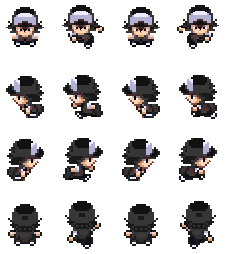
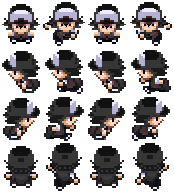
fix collision bug and test bully object

diff --git a/application/views/pages/game2.php b/application/views/pages/game2.php
@@ -96,6 +96,8 @@
 	var img = {};
 	img.player = new Image();
 	img.player.src = "<?php echo base_url(); ?>assets/images/avatars/cfcd208495d565ef66e7dff9f98764da.png";
+	img.bully = new Image();
+	img.bully.src = "<?php echo base_url(); ?>assets/images/bully.png";
 	img.map = new Image();
 	img.map.src = "<?php echo base_url(); ?>assets/images/" + map_filename;
 	img.key = new Image();
@@ -409,7 +411,7 @@
 			// ctx.fillRect(leftBumper.x, leftBumper.y, 5,5);
 			// ctx.fillRect(rightBumper.x, rightBumper.y, 5,5);
 
-			if( (Maps.current.isPossitionWall(leftBumper) === 4) || (Maps.current.isPossitionWall(leftBumper) === 4) || (Maps.current.isPossitionWall(leftBumper) === 4) || (Maps.current.isPossitionWall(rightBumper) === 4))
+			if( (Maps.current.isPossitionWall(topBumper) === 4) || (Maps.current.isPossitionWall(leftBumper) === 4) || (Maps.current.isPossitionWall(bottomBumper) === 4) || (Maps.current.isPossitionWall(rightBumper) === 4))
 			{
 				if(key.status != true)
 				{
@@ -420,7 +422,6 @@
 				{
 					alert('goal');
 					startNewGame();
-					console.log('goal');
 				}
 			}
 
@@ -430,7 +431,7 @@
 				{
 					self.y += 6;
 					isError = true;
-					// self.y = oldY;
+
 				} else {
 					if(self.isPressingUp)
 						self.y -= 6;
@@ -439,14 +440,14 @@
 				{
 					self.y -= 6;
 					isError = true;
-					// self.y = oldY;
+					
 				} else {
 					if(self.isPressingDown)
 						self.y += 6;
 				}
 				if(Maps.current.isPossitionWall(leftBumper) === 5)
 				{
-					// self.x = oldX;
+					
 					self.x += 6;
 					isError = true;
 				} else {
@@ -455,7 +456,7 @@
 				}
 				if(Maps.current.isPossitionWall(rightBumper) === 5)
 				{
-					// self.x = oldX;
+						
 					self.x -= 6;
 					isError = true;
 				} else {
@@ -572,20 +573,33 @@
 			height: height,
 			width: width,
 			img: new Image(),
+			toRemove: false,
 		};
 
-		img.src = imgSrc;
+		self.img.src = imgSrc;
 
 		self.update = function() {
 
-			if(atkCtr < 100)
-				atkCtr += atkSpd;
+			if(self.atkCtr < 100)
+				self.atkCtr += self.atkSpd;
 
-			self.aim();
+			self.updatePosition();
 			self.draw();
+			self.aim();
 		}
 
-		self.draw = function() {}
+		self.draw = function() {
+
+			var x = self.x - self.width/2;
+			var y = self.y - self.height/2;
+
+			var frameWidth = self.img.width/4;
+			var frameHeight = self.img.height/4;
+
+			var directionMod = 0;
+
+			ctx.drawImage(self.img, 0, 0, self.img.width/4, self.img.height/4, x, y, self.width, self.height);
+		}
 
 		self.updatePosition = function() {}
 
@@ -607,18 +621,31 @@
 			startPoint = 0;
 			
 			do{
-				if(Maps.current.grid[i].indexOf(6, startPoint) != -1)
+				if(Maps.current.grid[i].indexOf(7, startPoint) != -1)
 				{
-					coinX = (Maps.current.grid[i].indexOf(6, startPoint) * TILE_SIZE) + TILE_SIZE/2;
-					coinY = (i  * TILE_SIZE) + TILE_SIZE/2;
-					coinId = "coin_" + Math.random();
+					bullyX = (Maps.current.grid[i].indexOf(7, startPoint) * TILE_SIZE) + TILE_SIZE/2;
+					bullyY = (i  * TILE_SIZE) + TILE_SIZE/2;
+					bullyId = "bully_" + Math.random();
 				
-					Coin(coinId, img.coin.src, 50, 25, coinX, coinY);
+					Bully(bullyId, bullyX, bullyY, 43.6, 31.8, img.bully.src);
 				}
 
-				startPoint = Maps.current.grid[i].indexOf(6, startPoint) + 1;
+				startPoint = Maps.current.grid[i].indexOf(7, startPoint) + 1;
 
 			} while(startPoint != 0);
+		}
+	}
+
+	Bully.update = function() {
+		for(var key in Bully.list) {
+			Bully.list[key].update();
+		}
+
+		for(var key in Bully.list) {
+			if(Bully.list[key].toRemove === true)
+			{
+				delete Bully.list[key];
+			}
 		}
 	}
 
@@ -829,11 +856,13 @@
 	{
 		Projectile.list = {};
 		Coin.list = {};
+		Bully.list = {};
 
 		player = new Player('plyr1', Maps.current.startPt.x, Maps.current.startPt.y, img.player.width/5, img.player.height/5, img.player);
 		key = new Key('key', false,img.key.src, img.key.height/5, img.key.width/5);
 		key.locate();
 		Coin.Init();
+		Bully.init();
 
 		// do{
 		// 	canvas.width = Maps.current.width;
@@ -860,6 +889,7 @@
 		Coin.update();
 		Projectile.update();
 		player.update()
+		Bully.update();
 	}
 
 	start_point = JSON.parse(start_point);
